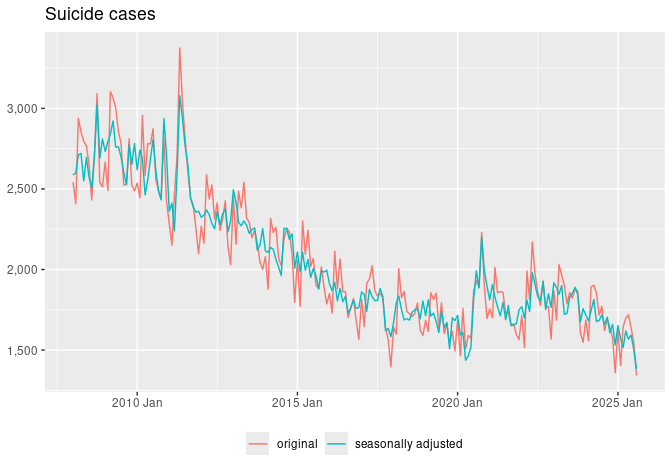
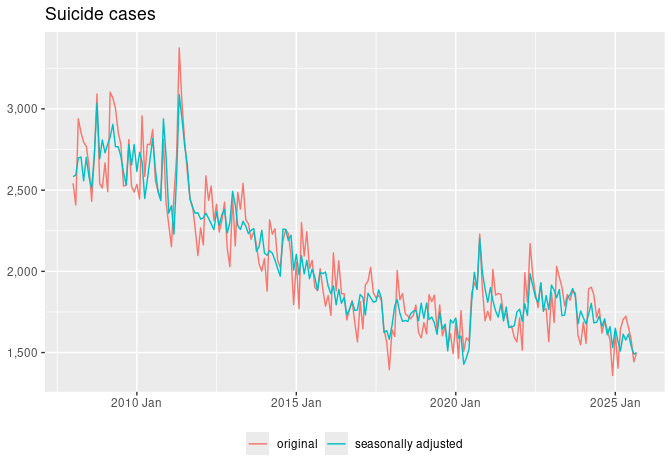
update September 2025 cases

diff --git a/README.md b/README.md
@@ -10,7 +10,7 @@ Mitsuo Shiota
 - [Suicide cases are bouncing back, but not as fast as the program
   suggests](#suicide-cases-are-bouncing-back-but-not-as-fast-as-the-program-suggests)
 
-Updated: 2025-10-03
+Updated: 2025-11-01
 
 ## Motivation
 
